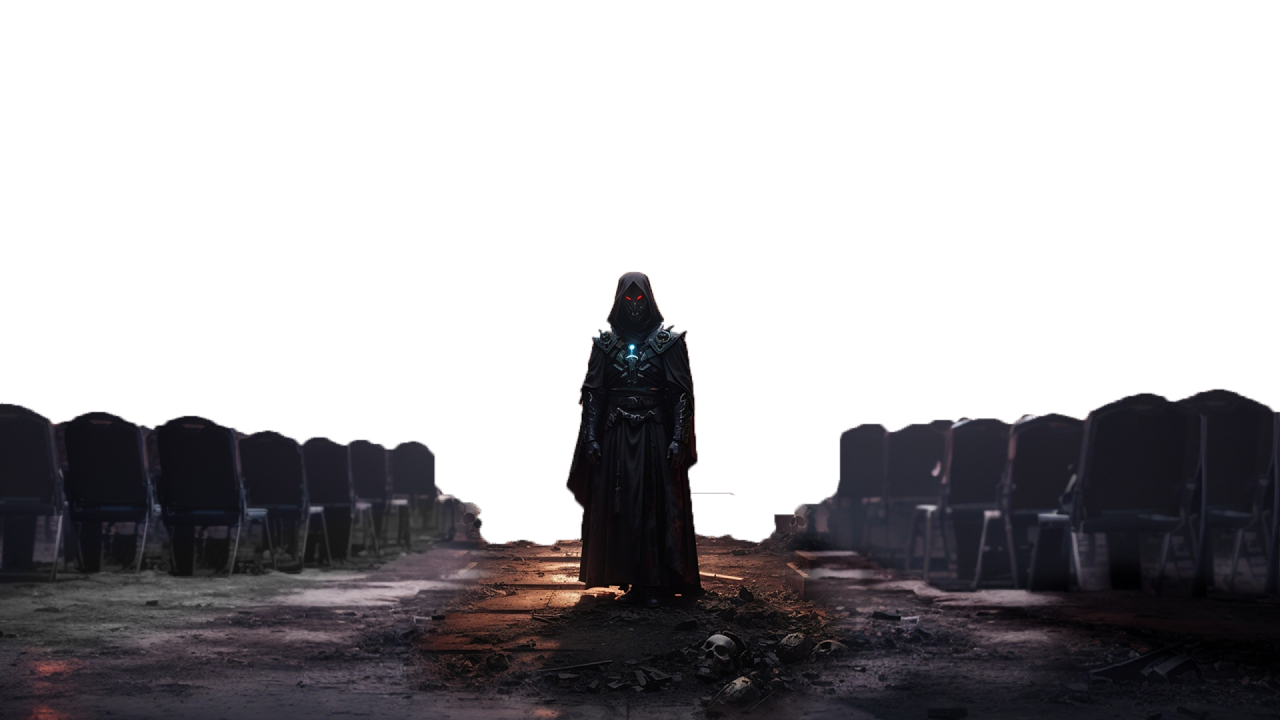
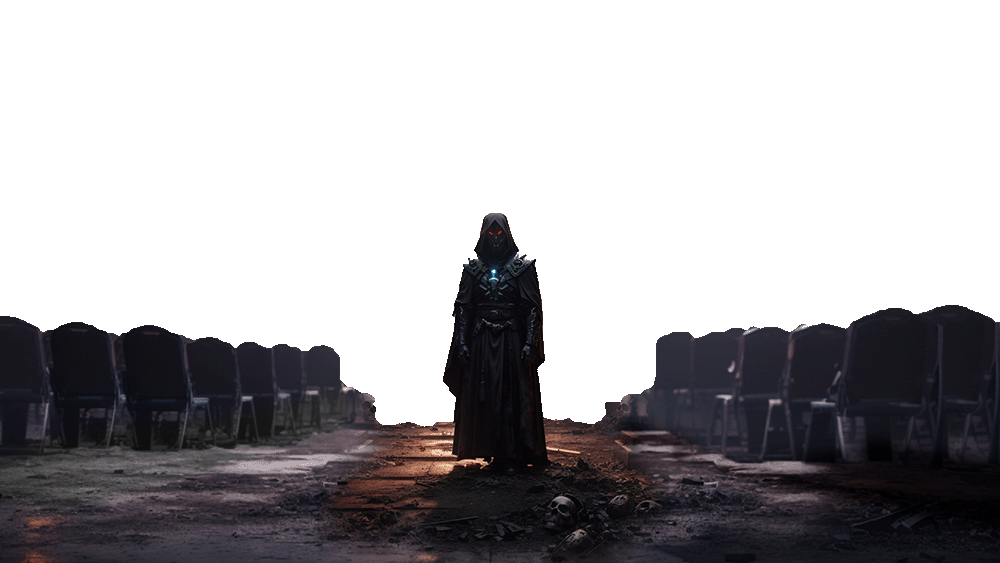
summit image compressed

diff --git a/frontend/src/pages/Lectures/index.jsx b/frontend/src/pages/Lectures/index.jsx
@@ -66,7 +66,7 @@ const Lectures = () => {
             CHECK THIS OUT
           </h1>
           <div>
-            <h2 style={{ marginBottom: "-10px" }}>Exhibitions</h2>
+            <h2 style={{ marginBottom: "-10px" }}>Competitions</h2>
             <Carousel
               i1={c1}
               i2={c2}
@@ -83,14 +83,14 @@ const Lectures = () => {
             <div className="difPage">
               <div className="check_rect1"></div>
               <div className="check_rect2">
-                <Link to="/competitions">Competitions</Link>
+                <Link to="/competitions">Explore</Link>
               </div>
               <br /><br /><br /><br /><br /><br /><br /><br />
             </div>
           </div>
           <div>
             <h2 style={{ marginTop: "40px", marginBottom: "-10px" }}>
-              Lectures
+              Exhibitions
             </h2>
             <Carousel
               i1={i1}
@@ -107,7 +107,7 @@ const Lectures = () => {
             <div className="difPage">
               <div className="check_rect1"></div>
               <div className="check_rect2">
-                <Link to="/exhibitions">Exhibitions</Link>
+                <Link to="/exhibitions">Explore</Link>
               </div>
             </div>
           </div>

diff --git a/frontend/src/pages/Compi/compi.jsx b/frontend/src/pages/Compi/compi.jsx
@@ -90,7 +90,7 @@ const Compi = () => {
           CHECK THIS OUT
         </h1>
         <div>
-          <h2 style={{ marginBottom: "-20px" }}>Competitions</h2>
+          <h2 style={{ marginBottom: "-20px" }}>Exhibition</h2>
           <Carousel
             i1={i1}
             i2={i2}
@@ -106,7 +106,7 @@ const Compi = () => {
           <div className="difPage">
             <div className="check_rect1"></div>
             <div className="check_rect2">
-              <Link to="/exhibitions">Exhibitions</Link>
+              <Link to="/exhibitions">Explore</Link>
             </div>
           </div>
           <br /><br /><br /><br /><br /><br /><br /><br />
@@ -128,7 +128,7 @@ const Compi = () => {
           <div className="difPage">
             <div className="check_rect1"></div>
             <div className="check_rect2">
-              <Link to="/lectures">Lectures</Link>
+              <Link to="/lectures">Explore</Link>
             </div>
           </div>
         </div>

diff --git a/frontend/src/pages/Summit/components/parallax.module.css b/frontend/src/pages/Summit/components/parallax.module.css
@@ -14,7 +14,7 @@
   }
   
   .layer1 {
-    background-image: url('../assets/summit_bg.png');
+    background-image: url('../assets/summit_bg.jpg');
     z-index: -1;
   position: relative;
   background-size: cover;
@@ -44,7 +44,7 @@
   }
 
   .image {
-  background-image: url('../assets/summit_bg.png');
+  background-image: url('../assets/summit_bg.jpg');
   min-height: 10vh;
   position: relative;
   background-size: cover;

diff --git a/frontend/src/pages/Summit/components/ImageTwo.js b/frontend/src/pages/Summit/components/ImageTwo.js
@@ -1,8 +1,8 @@
 import React from 'react';
 import parallax from './parallax.module.css';
 import Notify from "../../../components/Notify/notify";
-import sum1 from "../assets/sum1.png";
-import sum2 from "../assets/sum2.png";
+import sum1 from "../assets/sum1.jpg";
+import sum2 from "../assets/sum2.jpg";
 //import Grid from './Grid';
 
 const ImageTwo = () => {
